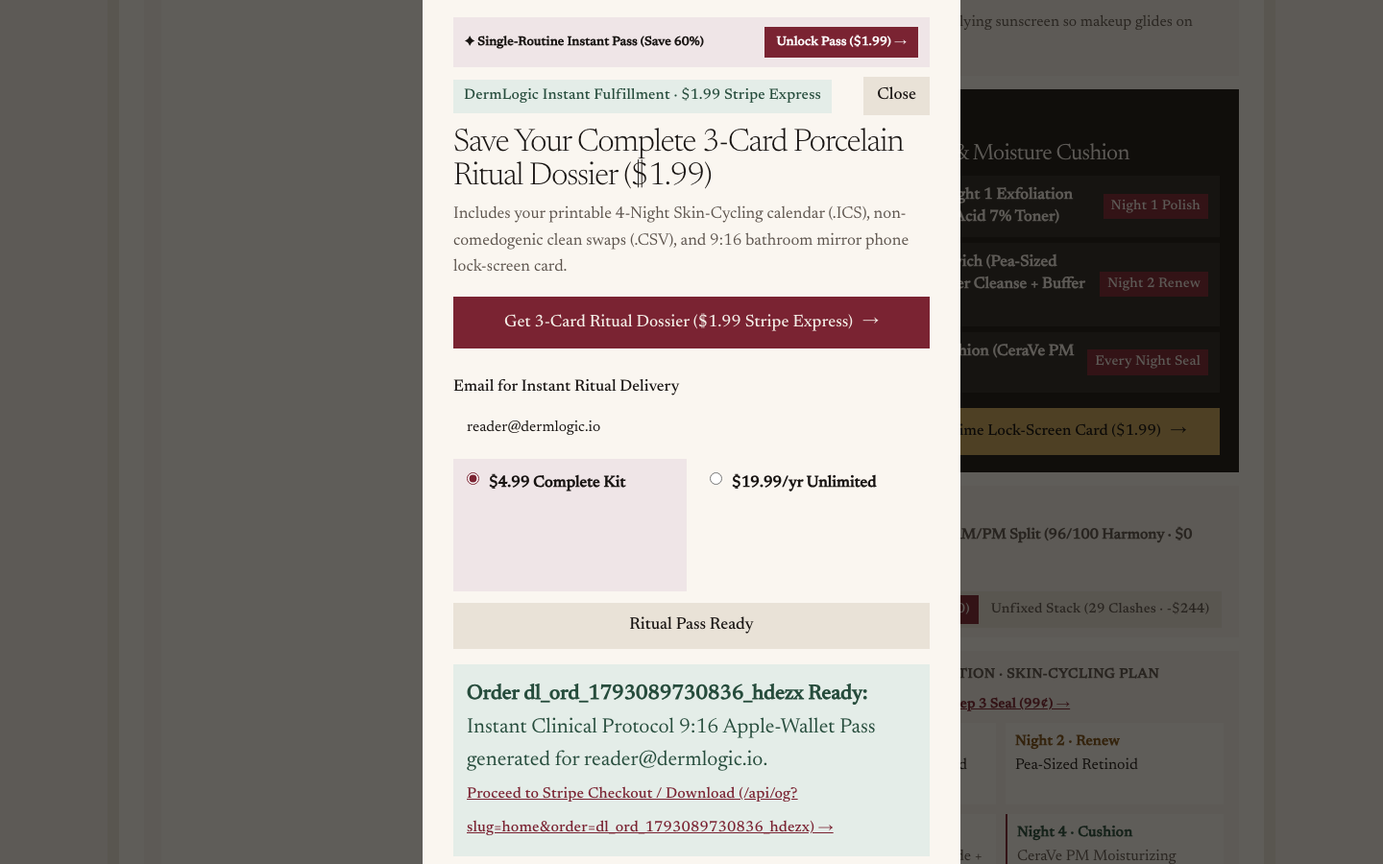
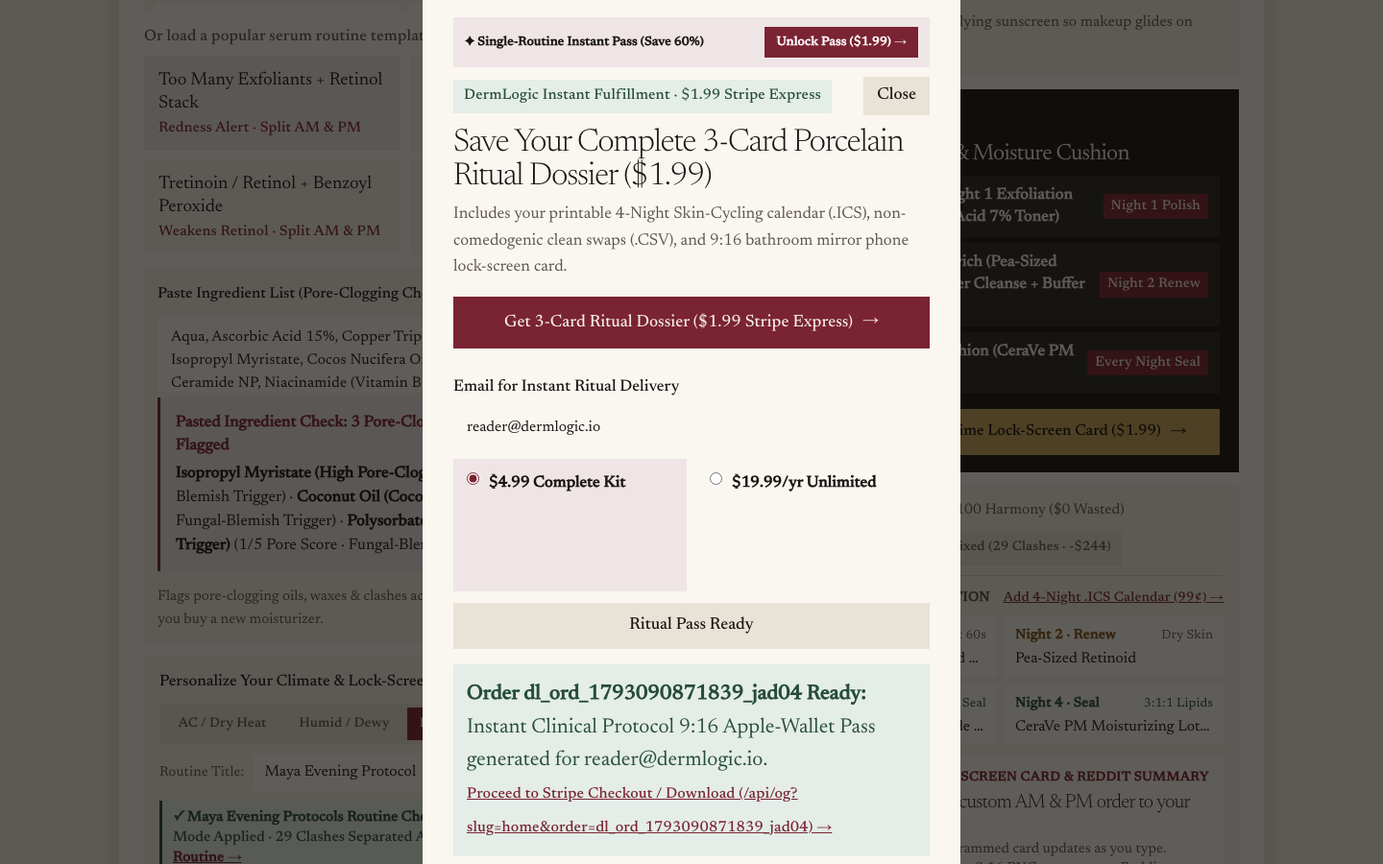
fix(ui): polish #analyzer two-column balance, personalization bar, 4-night rotation & lock-screen card

diff --git a/src/endowment-sovrn.js b/src/endowment-sovrn.js
@@ -198,27 +198,22 @@ function renderPersonalizedResultsHeaderHtml(res) {
 }
 
 function renderPersonalizationBarHtml(initialClimate = 'indoor_dry', initialShelfName = '') {
-  return `<div id="endowmentPersonalizationBar" style="padding:14px 16px;background:var(--bg-canvas);display:flex;flex-direction:column;gap:10px;border-left:2.5px solid var(--rose-brand);">
-    <div style="display:flex;justify-content:space-between;align-items:center;flex-wrap:wrap;gap:6px;">
-      <span class="mono" style="font-size:0.8rem;font-weight:600;color:var(--rose-brand);line-height:1.3;">Step 2 · Personalize Your Climate &amp; Vanity Ritual Card</span>
-      <span id="shelfDraftSavedBadge" class="mono" style="font-size:0.74rem;padding:2px 8px;background:var(--sage-bg);color:var(--sage-safe);font-weight:500;">✓ Shelf Auto-Saved in Browser</span>
+  return `<div id="endowmentPersonalizationBar" style="padding:14px 16px;background:var(--bg-canvas);display:flex;flex-direction:column;gap:10px;">
+    <div style="display:flex;justify-content:space-between;align-items:center;gap:8px;flex-wrap:wrap;">
+      <span class="field-label" style="margin:0;font-size:0.88rem;">Personalize Your Climate &amp; Lock-Screen Card</span>
+      <span id="shelfDraftSavedBadge" class="badge-safe mono" style="font-size:0.72rem;padding:2px 8px;">✓ Shelf Auto-Saved</span>
     </div>
-    <div style="display:grid;grid-template-columns:repeat(auto-fit,minmax(210px,1fr));gap:12px;align-items:flex-start;">
-      <div style="display:flex;flex-direction:column;gap:5px;">
-        <label for="shelfNameInput" class="mono" style="display:block;font-size:0.75rem;color:var(--text-secondary);line-height:1.35;">Monogram Your Routine &amp; 9:16 Card</label>
-        <input id="shelfNameInput" type="text" maxlength="44" class="input-box" style="padding:8px 10px;font-size:0.85rem;" placeholder="e.g., Kados or Maya's Evening Ritual" value="${escapeHtml(initialShelfName)}" oninput="window.__dlUpdatePersonalization()" onkeydown="if(event.key==='Enter'){event.preventDefault();if(typeof runRoutineAnalysis==='function')runRoutineAnalysis(null,true);}" />
-      </div>
-      <div style="display:flex;flex-direction:column;gap:5px;">
-        <span class="mono" style="display:block;font-size:0.75rem;color:var(--text-secondary);line-height:1.35;">Climate &amp; Barrier Mode (Adjusts Wait Times)</span>
-        <div id="climateContextPills" role="group" aria-label="Climate and Barrier Context" style="display:flex;gap:5px;flex-wrap:wrap;">
-          <button type="button" class="vanity-light-btn mono ${initialClimate === 'indoor_dry' ? 'active' : ''}" data-climate="indoor_dry" aria-pressed="${initialClimate === 'indoor_dry' ? 'true' : 'false'}" style="padding:5px 9px;font-size:0.74rem;min-height:30px;" onclick="window.__dlSetClimate('indoor_dry', this)">AC / Dry Heat</button>
-          <button type="button" class="vanity-light-btn mono ${initialClimate === 'humid_oily' ? 'active' : ''}" data-climate="humid_oily" aria-pressed="${initialClimate === 'humid_oily' ? 'true' : 'false'}" style="padding:5px 9px;font-size:0.74rem;min-height:30px;" onclick="window.__dlSetClimate('humid_oily', this)">Humid / Dewy</button>
-          <button type="button" class="vanity-light-btn mono ${initialClimate === 'retinoid_retinization' ? 'active' : ''}" data-climate="retinoid_retinization" aria-pressed="${initialClimate === 'retinoid_retinization' ? 'true' : 'false'}" style="padding:5px 9px;font-size:0.74rem;min-height:30px;" onclick="window.__dlSetClimate('retinoid_retinization', this)">Retinoid Purge</button>
-          <button type="button" class="vanity-light-btn mono ${initialClimate === 'pregnancy_nursing' ? 'active' : ''}" data-climate="pregnancy_nursing" aria-pressed="${initialClimate === 'pregnancy_nursing' ? 'true' : 'false'}" style="padding:5px 9px;font-size:0.74rem;min-height:30px;" onclick="window.__dlSetClimate('pregnancy_nursing', this)">Pregnancy-Safe</button>
-        </div>
-      </div>
+    <div id="climateContextPills" role="group" aria-label="Climate and Barrier Context" style="display:grid;grid-template-columns:repeat(4,minmax(0,1fr));gap:4px;background:var(--bg-oat);padding:4px;">
+      <button type="button" class="vanity-light-btn mono ${initialClimate === 'indoor_dry' ? 'active' : ''}" data-climate="indoor_dry" aria-pressed="${initialClimate === 'indoor_dry' ? 'true' : 'false'}" style="width:100%;text-align:center;padding:6px 4px;font-size:0.74rem;min-height:30px;" onclick="window.__dlSetClimate('indoor_dry', this)">AC / Dry Heat</button>
+      <button type="button" class="vanity-light-btn mono ${initialClimate === 'humid_oily' ? 'active' : ''}" data-climate="humid_oily" aria-pressed="${initialClimate === 'humid_oily' ? 'true' : 'false'}" style="width:100%;text-align:center;padding:6px 4px;font-size:0.74rem;min-height:30px;" onclick="window.__dlSetClimate('humid_oily', this)">Humid / Dewy</button>
+      <button type="button" class="vanity-light-btn mono ${initialClimate === 'retinoid_retinization' ? 'active' : ''}" data-climate="retinoid_retinization" aria-pressed="${initialClimate === 'retinoid_retinization' ? 'true' : 'false'}" style="width:100%;text-align:center;padding:6px 4px;font-size:0.74rem;min-height:30px;" onclick="window.__dlSetClimate('retinoid_retinization', this)">Retinoid Purge</button>
+      <button type="button" class="vanity-light-btn mono ${initialClimate === 'pregnancy_nursing' ? 'active' : ''}" data-climate="pregnancy_nursing" aria-pressed="${initialClimate === 'pregnancy_nursing' ? 'true' : 'false'}" style="width:100%;text-align:center;padding:6px 4px;font-size:0.74rem;min-height:30px;" onclick="window.__dlSetClimate('pregnancy_nursing', this)">Pregnancy-Safe</button>
     </div>
-    <div id="analyzeBtnFeedback" role="status" aria-live="polite" style="display:none;padding:9px 12px;background:var(--sage-bg);color:var(--sage-safe);border-left:3px solid var(--sage-safe);font-size:0.82rem;font-weight:500;line-height:1.4;"></div>
+    <div style="display:grid;grid-template-columns:auto minmax(0,1fr);gap:10px;align-items:center;">
+      <label for="shelfNameInput" class="mono" style="font-size:0.76rem;color:var(--text-secondary);white-space:nowrap;">Routine Title:</label>
+      <input id="shelfNameInput" type="text" maxlength="44" class="input-box" style="padding:7px 11px;font-size:0.84rem;" placeholder="e.g., Kados or Maya's Evening Ritual (Optional)" value="${escapeHtml(initialShelfName)}" oninput="window.__dlUpdatePersonalization()" onkeydown="if(event.key==='Enter'){event.preventDefault();if(typeof runRoutineAnalysis==='function')runRoutineAnalysis(null,true);}" />
+    </div>
+    <div id="analyzeBtnFeedback" role="status" aria-live="polite" style="display:none;padding:8px 11px;background:var(--sage-bg);color:var(--sage-safe);border-left:3px solid var(--sage-safe);font-size:0.8rem;font-weight:500;line-height:1.38;"></div>
   </div>`;
 }
 
@@ -226,43 +221,41 @@ function renderBeforeAfterAndCanvasFooterHtml(res, n1Label, n1Val, n2Label, n2Va
   const conflictCount = (res.conflicts || []).length;
   const wastedUsd = res.wastedShelfValueUsd || 0;
   return `
-    <div id="beforeAfterSplitBar" style="padding:10px 12px;background:var(--bg-canvas);display:flex;justify-content:space-between;align-items:center;flex-wrap:wrap;gap:8px;">
+    <div style="padding:14px 16px;background:var(--bg-canvas);display:flex;flex-direction:column;gap:12px;">
+      <div id="beforeAfterSplitBar" style="display:flex;justify-content:space-between;align-items:center;flex-wrap:wrap;gap:8px;padding-bottom:10px;border-bottom:1px solid var(--border-hairline);">
+        <span id="beforeAfterStatusText" style="font-size:0.82rem;color:var(--text-secondary);"><strong style="color:var(--sage-safe);">✓ Fixed AM/PM Split</strong> &middot; 96/100 Harmony ($0 Wasted)</span>
+        <div class="vanity-light-pill" role="group" aria-label="Compare Before Clashing Stack vs After Fixed Split" style="padding:3px;gap:3px;">
+          <button type="button" id="btnViewFixedSplit" class="vanity-light-btn active mono" style="font-size:0.73rem;padding:4px 9px;min-height:26px;" aria-pressed="true" onclick="window.__dlToggleBeforeAfter('fixed', this)">Fixed Split (96/100)</button>
+          <button type="button" id="btnViewClashingStack" class="vanity-light-btn mono" style="font-size:0.73rem;padding:4px 9px;min-height:26px;" aria-pressed="false" onclick="window.__dlToggleBeforeAfter('clash', this)">Unfixed (${conflictCount} ${conflictCount === 1 ? 'Clash' : 'Clashes'} &middot; -$${wastedUsd})</button>
+        </div>
+      </div>
+
       <div>
-        <span class="mono" style="font-size:0.76rem;color:var(--rose-brand);font-weight:600;display:block;">Instant Routine Comparison</span>
-        <span id="beforeAfterStatusText" style="font-size:0.82rem;color:var(--text-secondary);">Viewing: <strong>DermLogic Fixed AM/PM Split (96/100 Harmony · $0 Wasted)</strong></span>
-      </div>
-      <div class="vanity-light-pill" role="group" aria-label="Compare Before Clashing Stack vs After Fixed Split">
-        <button type="button" id="btnViewFixedSplit" class="vanity-light-btn active mono" style="font-size:0.75rem;padding:4px 9px;min-height:28px;" aria-pressed="true" onclick="window.__dlToggleBeforeAfter('fixed', this)">Fixed AM/PM Split (96/100)</button>
-        <button type="button" id="btnViewClashingStack" class="vanity-light-btn mono" style="font-size:0.75rem;padding:4px 9px;min-height:28px;" aria-pressed="false" onclick="window.__dlToggleBeforeAfter('clash', this)">Unfixed Stack (${conflictCount} ${conflictCount === 1 ? 'Clash' : 'Clashes'} · -$${wastedUsd})</button>
-      </div>
-    </div>
-
-    <div style="padding:14px 16px;background:var(--bg-canvas);">
-      <div style="display:flex;justify-content:space-between;align-items:center;flex-wrap:wrap;gap:8px;margin-bottom:8px;">
-        <div class="mono" style="font-size:0.76rem;color:var(--text-secondary);font-weight:600;letter-spacing:0.03em;text-transform:uppercase;">4-Night Bedtime Rotation &middot; Skin-Cycling Plan</div>
-        <a href="/buy/micro_pass?source=cycling_grid" onclick="if(window.__ebQuickBuy){window.__ebQuickBuy('micro_pass');return false;}" class="mono" style="font-size:0.75rem;color:var(--rose-brand);font-weight:600;text-decoration:underline;">Unlock Full 4-Night .ICS + Step 3 Seal (99&cent;) &rarr;</a>
-      </div>
-      <div style="display:grid;grid-template-columns:repeat(2,minmax(0,1fr));gap:10px;">
-        <div style="padding:8px 10px;background:var(--bg-surface);"><div class="mono" style="font-size:0.8rem;color:var(--rose-brand);font-weight:600;">${escapeHtml(n1Label)}</div><div style="font-size:0.85rem;color:var(--text-primary);margin-top:2px;line-height:1.35;">${escapeHtml(n1Val)}</div></div>
-        <div style="padding:8px 10px;background:var(--bg-surface);"><div class="mono" style="font-size:0.8rem;color:var(--honey-warn);font-weight:600;">${escapeHtml(n2Label)}</div><div style="font-size:0.85rem;color:var(--text-primary);margin-top:2px;line-height:1.35;">${escapeHtml(n2Val)}</div></div>
-        <div style="padding:8px 10px;background:var(--bg-surface);border-left:2px solid var(--rose-brand);"><div class="mono" style="font-size:0.8rem;color:var(--sage-safe);font-weight:600;">${escapeHtml(n3Label)}</div><div class="dl-gated-night-val" data-unlocked-text="${escapeHtml(n3Val)}" style="font-size:0.83rem;color:var(--text-secondary);margin-top:2px;line-height:1.35;">${escapeHtml(n3Val)} &middot; <span class="mono" style="color:var(--rose-brand);font-weight:600;">[Exact Dry-Down in 99&cent; Card]</span></div></div>
-        <div style="padding:8px 10px;background:var(--bg-surface);border-left:2px solid var(--rose-brand);"><div class="mono" style="font-size:0.8rem;color:var(--sage-safe);font-weight:600;">Night 4 &middot; Cushion</div><div class="dl-gated-night-val" data-unlocked-text="${escapeHtml(n4Val)}" style="font-size:0.83rem;color:var(--text-secondary);margin-top:2px;line-height:1.35;">${escapeHtml(n4Val)} &middot; <span class="mono" style="color:var(--rose-brand);font-weight:600;">[Barrier Seal Ratio in 99&cent; Card]</span></div></div>
-      </div>
-    </div>
-
-    <div id="lockScreenCanvasSection" style="padding:14px 16px;background:var(--bg-canvas);display:flex;flex-direction:column;gap:10px;">
-      <div style="display:flex;justify-content:space-between;align-items:center;flex-wrap:wrap;gap:8px;">
-        <div>
-          <span class="mono" style="font-size:0.78rem;color:var(--rose-brand);font-weight:600;display:block;">9:16 Bathroom Mirror Phone Lock-Screen Wallpaper Preview</span>
-          <span style="font-size:0.8rem;color:var(--text-secondary);">Live monogrammed card updates as you type. Free preview includes diagonal watermark; 99&cent; pass downloads high-res unwatermarked PNG.</span>
+        <div style="display:flex;justify-content:space-between;align-items:center;flex-wrap:wrap;gap:6px;margin-bottom:8px;">
+          <span class="mono" style="font-size:0.75rem;color:var(--text-secondary);font-weight:600;letter-spacing:0.02em;text-transform:uppercase;">4-Night Bedtime Rotation</span>
+          <a href="/buy/micro_pass?source=cycling_grid" onclick="if(window.__ebQuickBuy){window.__ebQuickBuy('micro_pass');return false;}" class="mono" style="font-size:0.74rem;color:var(--rose-brand);font-weight:500;text-decoration:underline;white-space:nowrap;">Add 4-Night .ICS Calendar (99&cent;) &rarr;</a>
         </div>
-        <div style="display:flex;gap:6px;flex-wrap:wrap;">
-          <button type="button" id="btnCopyRedditRoutineHelp" class="btn-secondary mono" style="padding:6px 11px;min-height:32px;font-size:0.76rem;" onclick="window.__dlCopyRedditRoutineHelp(this)">Copy [Routine Help] Post for Reddit</button>
-          <button type="button" id="btnDownloadLockScreenPng" class="btn-primary mono" style="padding:6px 12px;min-height:32px;font-size:0.76rem;" onclick="window.__dlDownloadOrUnlockWallpaper()">Download 9:16 Wallpaper PNG (99&cent;) &rarr;</button>
+        <div style="display:grid;grid-template-columns:repeat(2,minmax(0,1fr));gap:8px;">
+          <div style="padding:9px 11px;background:var(--bg-surface);"><div style="display:flex;justify-content:space-between;align-items:center;gap:4px;"><span class="mono" style="font-size:0.76rem;color:var(--rose-brand);font-weight:600;white-space:nowrap;">${escapeHtml(n1Label)}</span><span class="mono" style="font-size:0.69rem;color:var(--text-muted);white-space:nowrap;">Wait 60s</span></div><div style="font-size:0.83rem;color:var(--text-primary);margin-top:2px;line-height:1.3;white-space:nowrap;overflow:hidden;text-overflow:ellipsis;">${escapeHtml(n1Val)}</div></div>
+          <div style="padding:9px 11px;background:var(--bg-surface);"><div style="display:flex;justify-content:space-between;align-items:center;gap:4px;"><span class="mono" style="font-size:0.76rem;color:var(--honey-warn);font-weight:600;white-space:nowrap;">${escapeHtml(n2Label)}</span><span class="mono" style="font-size:0.69rem;color:var(--text-muted);white-space:nowrap;">Dry Skin</span></div><div style="font-size:0.83rem;color:var(--text-primary);margin-top:2px;line-height:1.3;white-space:nowrap;overflow:hidden;text-overflow:ellipsis;">${escapeHtml(n2Val)}</div></div>
+          <div style="padding:9px 11px;background:var(--bg-surface);"><div style="display:flex;justify-content:space-between;align-items:center;gap:4px;"><span class="mono" style="font-size:0.76rem;color:var(--sage-safe);font-weight:600;white-space:nowrap;">${escapeHtml(n3Label)}</span><span class="mono dl-gated-night-val" data-unlocked-text="Damp Seal" style="font-size:0.69rem;color:var(--sage-safe);white-space:nowrap;">Barrier Rest</span></div><div style="font-size:0.83rem;color:var(--text-primary);margin-top:2px;line-height:1.3;white-space:nowrap;overflow:hidden;text-overflow:ellipsis;">${escapeHtml(n3Val)}</div></div>
+          <div style="padding:9px 11px;background:var(--bg-surface);"><div style="display:flex;justify-content:space-between;align-items:center;gap:4px;"><span class="mono" style="font-size:0.76rem;color:var(--sage-safe);font-weight:600;white-space:nowrap;">Night 4 &middot; Seal</span><span class="mono dl-gated-night-val" data-unlocked-text="3:1:1 Lipids" style="font-size:0.69rem;color:var(--sage-safe);white-space:nowrap;">3:1:1 Lipids</span></div><div style="font-size:0.83rem;color:var(--text-primary);margin-top:2px;line-height:1.3;white-space:nowrap;overflow:hidden;text-overflow:ellipsis;">${escapeHtml(n4Val)}</div></div>
         </div>
       </div>
-      <div style="display:flex;justify-content:center;background:var(--bg-oat);padding:10px;">
-        <canvas id="lockScreenWallpaperCanvas" width="360" height="640" style="width:198px;height:352px;max-width:100%;background:#181412;display:block;"></canvas>
+
+      <div id="lockScreenCanvasSection" style="padding:12px 14px;background:var(--bg-surface);display:grid;grid-template-columns:84px minmax(0,1fr);gap:14px;align-items:center;">
+        <canvas id="lockScreenWallpaperCanvas" width="360" height="640" onclick="window.__dlDownloadOrUnlockWallpaper()" title="Click to download 9:16 Lock-Screen Routine Card" style="width:84px;height:149px;background:#181412;display:block;cursor:pointer;box-shadow:0 4px 12px rgba(12,10,8,0.14);"></canvas>
+        <div style="min-width:0;display:flex;flex-direction:column;gap:6px;">
+          <div>
+            <span class="mono" style="font-size:0.72rem;color:var(--rose-brand);font-weight:600;display:block;text-transform:uppercase;letter-spacing:0.02em;white-space:nowrap;overflow:hidden;text-overflow:ellipsis;">9:16 Lock-Screen Card &amp; Reddit Summary</span>
+            <div class="serif-display" style="font-size:1.08rem;color:var(--text-primary);line-height:1.22;margin-top:2px;">Save your custom AM &amp; PM order to your phone.</div>
+            <div style="font-size:0.78rem;color:var(--text-secondary);line-height:1.36;margin-top:2px;">Live monogrammed card updates as you type. Download the 9:16 PNG or copy your Reddit summary.</div>
+          </div>
+          <div style="display:grid;grid-template-columns:repeat(2,minmax(0,1fr));gap:8px;align-items:center;margin-top:2px;">
+            <button type="button" id="btnDownloadLockScreenPng" class="btn-primary mono" style="padding:6px 8px;min-height:32px;font-size:0.72rem;white-space:nowrap;justify-content:center;" onclick="window.__dlDownloadOrUnlockWallpaper()">Save 9:16 PNG (99&cent;) &rarr;</button>
+            <button type="button" id="btnCopyRedditRoutineHelp" class="btn-secondary mono" style="padding:6px 8px;min-height:32px;font-size:0.72rem;white-space:nowrap;justify-content:center;" onclick="window.__dlCopyRedditRoutineHelp(this)">Copy Reddit Summary</button>
+          </div>
+        </div>
       </div>
     </div>
   `;
@@ -489,11 +482,16 @@ const ENDOWMENT_CLIENT_SCRIPT = `
     var wUsd = res.wastedShelfValueUsd || 0;
     if (st) {
       st.innerHTML = window.__dlViewMode === 'clash'
-        ? 'Viewing: <strong style="color:var(--berry-clash);">Unfixed Same-Night Stack (' + cCount + ' Clashes · -$' + wUsd + ' Serum Value at Risk)</strong>'
-        : 'Viewing: <strong style="color:var(--sage-safe);">DermLogic Fixed AM/PM Split (96/100 Harmony · $0 Wasted)</strong>';
+        ? '<strong style="color:var(--berry-clash);">Unfixed Stack</strong> &middot; ' + cCount + ' Clashes (-$' + wUsd + ' Serum Value at Risk)'
+        : '<strong style="color:var(--sage-safe);">✓ Fixed AM/PM Split</strong> &middot; 96/100 Harmony ($0 Wasted)';
     }
     window.__dlSaveShelfState();
     window.__dlRenderWallpaperCanvas();
+  };
+
+  window.__dlCleanCanvasStep = function(raw) {
+    var s = String(raw || '').replace(/\\s*\\([^)]*$/, '').replace(/\\s*\\([^)]*\\)/g, '').trim();
+    return s.length > 34 ? (s.slice(0, 33) + '...') : s;
   };
 
   window.__dlRenderWallpaperCanvas = function() {
@@ -513,64 +511,66 @@ const ENDOWMENT_CLIENT_SCRIPT = `
 
     ctx.fillStyle = '#C9A45A';
     ctx.font = '600 11px Georgia, serif';
-    ctx.fillText('DERMLOGIC · FORMULATION ATELIER', 26, 40);
+    ctx.fillText('DERMLOGIC · FORMULATION ATELIER', 26, 42);
 
     ctx.fillStyle = '#F4EFE8';
-    ctx.font = 'bold 18px Georgia, serif';
-    ctx.fillText(shelfName.slice(0, 28), 26, 68);
+    ctx.font = 'bold 19px Georgia, serif';
+    ctx.fillText(shelfName.slice(0, 26), 26, 70);
 
     ctx.fillStyle = '#B5ACA3';
-    ctx.font = '12px Georgia, serif';
-    ctx.fillText(climateTxt, 26, 88);
+    ctx.font = '12.5px Georgia, serif';
+    ctx.fillText(climateTxt, 26, 92);
 
     var cards = document.querySelectorAll('#appleWalletCardPreview strong');
     var steps = [];
     for (var i = 0; i < cards.length; i++) {
-      steps.push(cards[i].textContent.trim().slice(0, 42));
+      steps.push(window.__dlCleanCanvasStep(cards[i].textContent));
     }
     if (steps.length === 0) {
       steps = ['1. Gentle Morning Cleanse', '2. Morning Vitamin C (Wait 60s)', '3. Barrier Seal + SPF 50', '1. Evening Cleanse', '2. Night Active / Peptide', '3. 3:1:1 Ceramide Cushion'];
     }
 
     ctx.fillStyle = '#EFE5E7';
-    ctx.font = 'bold 12px Georgia, serif';
-    ctx.fillText('7:30 AM · MORNING SHIELD ORDER', 26, 124);
+    ctx.font = 'bold 12.5px Georgia, serif';
+    ctx.fillText('7:30 AM · MORNING SHIELD', 26, 132);
     ctx.fillStyle = '#F4EFE8';
-    ctx.font = '12px Georgia, serif';
+    ctx.font = '13px Georgia, serif';
     for (var a = 0; a < Math.min(3, steps.length); a++) {
-      ctx.fillText(steps[a], 26, 148 + a * 24);
+      ctx.fillText(steps[a], 26, 158 + a * 26);
     }
 
     ctx.fillStyle = '#C9A45A';
-    ctx.font = 'bold 12px Georgia, serif';
-    ctx.fillText('9:30 PM · BEDTIME RECOVERY ORDER', 26, 240);
+    ctx.font = 'bold 12.5px Georgia, serif';
+    ctx.fillText('9:30 PM · BEDTIME RECOVERY', 26, 256);
     ctx.fillStyle = '#F4EFE8';
-    ctx.font = '12px Georgia, serif';
+    ctx.font = '13px Georgia, serif';
     for (var p = 3; p < Math.min(6, steps.length); p++) {
-      ctx.fillText(steps[p], 26, 264 + (p - 3) * 24);
+      ctx.fillText(steps[p], 26, 282 + (p - 3) * 26);
     }
 
     ctx.fillStyle = '#88C4A6';
-    ctx.font = 'bold 12px Georgia, serif';
-    ctx.fillText('4-NIGHT SKIN-CYCLING ROTATION', 26, 360);
+    ctx.font = 'bold 12.5px Georgia, serif';
+    ctx.fillText('4-NIGHT SKIN-CYCLING PLAN', 26, 380);
     ctx.fillStyle = '#B5ACA3';
-    ctx.font = '11.5px Georgia, serif';
-    ctx.fillText('Night 1: Gentle Acid Polish · Wait 60s', 26, 384);
-    ctx.fillText('Night 2: Retinoid Renewal · Cream Buffer', 26, 406);
-    ctx.fillText('Night 3: Peptide & Barrier Recovery', 26, 428);
-    ctx.fillText('Night 4: 3:1:1 Ceramide Cushion Seal', 26, 450);
+    ctx.font = '12.5px Georgia, serif';
+    ctx.fillText('Night 1: Gentle Acid Polish · Wait 60s', 26, 406);
+    ctx.fillText('Night 2: Retinoid Renewal · Cream Buffer', 26, 430);
+    ctx.fillText('Night 3: Peptide & Barrier Recovery', 26, 454);
+    ctx.fillText('Night 4: 3:1:1 Ceramide Cushion Seal', 26, 478);
 
     var unlocked = Boolean(window.__ebIsUnlocked);
     if (!unlocked) {
-      ctx.save();
-      ctx.translate(w / 2, h / 2);
-      ctx.rotate(-Math.PI / 5);
-      ctx.fillStyle = 'rgba(201, 164, 90, 0.22)';
-      ctx.font = 'bold 21px Georgia, serif';
-      ctx.textAlign = 'center';
-      ctx.fillText('DERMLOGIC.IO PREVIEW', 0, -10);
-      ctx.fillText('UNLOCK 99¢ CLEAN CARD', 0, 18);
-      ctx.restore();
+      ctx.fillStyle = 'rgba(201, 164, 90, 0.16)';
+      ctx.fillRect(24, 524, w - 48, 52);
+      ctx.strokeStyle = 'rgba(201, 164, 90, 0.55)';
+      ctx.lineWidth = 1;
+      ctx.strokeRect(24, 524, w - 48, 52);
+      ctx.fillStyle = '#C9A45A';
+      ctx.font = 'bold 12px Georgia, serif';
+      ctx.fillText('DERMLOGIC.IO FREE PREVIEW', 38, 546);
+      ctx.fillStyle = '#F4EFE8';
+      ctx.font = '11.5px Georgia, serif';
+      ctx.fillText('Tap to download unwatermarked 9:16 PNG (99¢)', 38, 564);
     } else {
       var dlBtn = document.getElementById('btnDownloadLockScreenPng');
       if (dlBtn) dlBtn.textContent = 'Download Clean 9:16 PNG ↓';

diff --git a/src/ui-templates.js b/src/ui-templates.js
@@ -169,7 +169,7 @@ const SHARED_CSS = `
   .preset-chip strong { display: -webkit-box; -webkit-line-clamp: 2; -webkit-box-orient: vertical; overflow: hidden; color: var(--text-primary); font-family: 'Newsreader', Georgia, serif; font-size: 1rem; font-weight: 400; line-height: 1.25; white-space: normal; }
   .preset-chip span { display: block; color: var(--rose-brand); font-size: 0.8rem; font-weight: 500; line-height: 1.3; white-space: normal; }
   .field-label { display: block; font-size: 0.9rem; font-weight: 500; color: var(--text-primary); margin-bottom: 6px; }
-  .product-selector-grid { display: grid !important; grid-template-columns: repeat(2, minmax(0, 1fr)) !important; grid-auto-rows: 138px; gap: 10px; flex: 0 0 606px; height: 606px; min-height: 606px; max-height: 606px; overflow-y: auto; scrollbar-width: thin; scrollbar-color: var(--border-strong) transparent; padding: 12px; background: var(--bg-canvas); margin-bottom: 14px; align-content: start; }
+  .product-selector-grid { display: grid !important; grid-template-columns: repeat(2, minmax(0, 1fr)) !important; grid-auto-rows: 138px; gap: 10px; flex: 1 1 0px; height: 0; min-height: 540px; overflow-y: auto; scrollbar-width: thin; scrollbar-color: var(--border-strong) transparent; padding: 12px; background: var(--bg-canvas); margin-bottom: 14px; align-content: start; }
   .prod-check-item { display: flex; align-items: stretch; gap: 10px; padding: 12px 14px; height: 138px; background: var(--bg-surface); cursor: pointer; font-size: 0.88rem; transition: background-color 180ms ease-out; overflow: hidden; }
   .prod-check-item.selected { background: var(--rose-pill-bg); }
   .prod-check-item input { margin-top: 2px; align-self: flex-start; accent-color: var(--rose-brand); flex-shrink: 0; }
@@ -223,6 +223,7 @@ const SHARED_CSS = `
     .editorial-top-banner { grid-template-columns: 1fr; row-gap: 24px; }
     .hero-title-block, .hero-copy-col, .hero-photo-col { grid-column: 1 / -1 !important; }
     .hero-grid, .z-cascade-stage, .bento-grid-3 { grid-template-columns: 1fr; }
+    .product-selector-grid { max-height: 560px; }
     .viscosity-seq-list { grid-template-columns: repeat(2, 1fr); }
     .hero-h1-line2 { padding-left: 6vw; }
     .nav-inner { flex-wrap: wrap; }
@@ -341,8 +342,8 @@ function renderInteractiveCheckerWidget({ products, presets, initialAnalysis, in
   return `
     <div id="checker"></div>
     <div class="hero-grid" id="analyzer">
-      <div class="grader-card" style="display:flex;flex-direction:column;justify-content:space-between;height:100%;">
-        <div class="porcelain-vessel-core" style="height:100%;display:flex;flex-direction:column;justify-content:space-between;gap:16px;">
+      <div class="grader-card" style="display:flex;flex-direction:column;">
+        <div class="porcelain-vessel-core" style="flex:1;display:flex;flex-direction:column;justify-content:space-between;gap:16px;">
           <div style="flex:1;display:flex;flex-direction:column;min-height:0;gap:14px;">
             <div style="display:flex;justify-content:space-between;align-items:center;flex-wrap:wrap;gap:8px;">
               <span class="mono" style="font-size:0.9rem;color:var(--rose-brand);font-weight:500;">Bathroom Vanity Shelf Builder</span>
@@ -383,14 +384,14 @@ function renderInteractiveCheckerWidget({ products, presets, initialAnalysis, in
               </div>
             </div>
 
-            <div style="flex:1;display:flex;flex-direction:column;padding:16px 18px;background:var(--bg-canvas);">
-              <div style="display:flex;justify-content:space-between;align-items:center;margin-bottom:10px;flex-wrap:wrap;gap:8px;">
-                <label class="field-label" for="rawInciTextarea" style="margin:0;font-size:0.9rem;">Paste Any Ingredient List for a Pore-Clogging &amp; Blemish Check</label>
-                <button type="button" class="btn-secondary" style="padding:6px 12px;font-size:0.82rem;min-height:34px;" onclick="pasteSampleComedogenicInci()">Try Pore-Clogging Sample</button>
+            <div style="flex:0 0 auto;display:flex;flex-direction:column;padding:12px 14px;background:var(--bg-canvas);">
+              <div style="display:flex;justify-content:space-between;align-items:center;margin-bottom:8px;gap:8px;">
+                <label class="field-label" for="rawInciTextarea" style="margin:0;font-size:0.84rem;white-space:nowrap;overflow:hidden;text-overflow:ellipsis;">Paste Ingredient List (Pore-Clogging Check)</label>
+                <button type="button" class="btn-secondary" style="padding:4px 10px;font-size:0.76rem;min-height:28px;flex-shrink:0;" onclick="pasteSampleComedogenicInci()">Try Pore-Clogging Sample</button>
               </div>
-              <textarea id="rawInciTextarea" class="textarea-box mono" rows="3" style="flex:1;min-height:76px;" oninput="if(window.__inciTimer)clearTimeout(window.__inciTimer);window.__inciTimer=setTimeout(function(){runRoutineAnalysis();},380);" placeholder="e.g., Aqua, Ascorbic Acid 15%, Copper Tripeptide-1, Glycolic Acid 7%, Isopropyl Myristate...">${escapeHtml(initialRawInci || '')}</textarea>
-              <div id="rawInciFeedbackBox" style="margin-top:8px;"></div>
-              <div style="font-size:0.82rem;color:var(--text-secondary);margin-top:6px;">Flags pore-clogging oils, waxes &amp; clashes across 65 skincare ingredients, helpful before buying a new moisturizer or foundation.</div>
+              <textarea id="rawInciTextarea" class="textarea-box mono" rows="3" style="flex:0 0 auto;height:78px;min-height:78px;max-height:130px;resize:vertical;" oninput="if(window.__inciTimer)clearTimeout(window.__inciTimer);window.__inciTimer=setTimeout(function(){runRoutineAnalysis();},380);" placeholder="e.g., Aqua, Ascorbic Acid 15%, Copper Tripeptide-1, Glycolic Acid 7%, Isopropyl Myristate...">${escapeHtml(initialRawInci || '')}</textarea>
+              <div id="rawInciFeedbackBox" style="margin-top:6px;"></div>
+              <div style="font-size:0.79rem;color:var(--text-secondary);margin-top:5px;">Flags pore-clogging oils, waxes &amp; clashes across 65 skincare ingredients before you buy a new moisturizer.</div>
             </div>
             ${renderPersonalizationBarHtml('indoor_dry', '')}
           </div>
@@ -458,15 +459,18 @@ function renderSingleConflictCard(c) {
   const nameB = String(c.ingredientB || c.inciB || '').replace(/\s*\([^)]*\)/g, '');
   const cleanTitle = String(c.title || '').replace(/\s*\(pH[^)]*\)/gi, '');
   const cleanMechanism = String(c.mechanism || '').replace(/\s*\(pH[^)]*\)/gi, '').replace(/\blow-pH\s+/gi, '');
-  const howToFix = String(c.resolution || (isCritical ? 'Use one bottle in the morning and the other at bedtime.' : 'Apply a ceramide moisturizer first (Sandwich Method) or alternate nights.')).trim();
+  const rawRes = String(c.resolution || '').trim();
+  const howToFix = (!rawRes || /LOCKED IN FREE PREVIEW/i.test(rawRes))
+    ? (isCritical ? 'Use one bottle in the morning (7:30 AM) and the other at bedtime (9:30 PM) so they never cancel on contact.' : 'Apply a ceramide moisturizer first (Sandwich Method) or alternate across your 4-night cycle.')
+    : rawRes;
   const timingTip = isCritical ? 'Separate Morning & Night' : 'Alternate Nights or Buffer First';
   const swap = getConflictSafeSwap(c);
-  return `<div class="conflict-card ${escapeHtml(c.severity)}">
-      <div style="display:flex;justify-content:space-between;align-items:center;gap:8px;margin-bottom:6px;flex-wrap:wrap;"><span class="${isCritical ? 'badge-clash' : 'badge-warn'} mono">${badgeLabel}</span><span class="mono" style="font-size:0.86rem;color:var(--text-secondary);font-weight:500;">${escapeHtml(nameA)} + ${escapeHtml(nameB)}</span></div>
-      <div class="serif-display" style="font-size:1.25rem;font-weight:400;margin-bottom:6px;color:var(--text-primary);">${escapeHtml(cleanTitle)}</div>
-      <p style="color:var(--text-secondary);font-size:0.9rem;line-height:1.54;margin-bottom:8px;">${escapeHtml(cleanMechanism)}</p>
-      <div style="padding:8px 11px;background:rgba(255,255,255,0.62);border-left:2.5px solid ${isCritical ? 'var(--berry-clash)' : 'var(--honey-warn)'};font-size:0.84rem;line-height:1.42;color:var(--text-primary);margin-bottom:8px;"><strong>How to Fix:</strong> ${escapeHtml(howToFix)}<div class="mono" style="margin-top:4px;font-size:0.78rem;color:var(--sage-safe);">${escapeHtml(swap.freeFix)}</div></div>
-      <div style="display:flex;justify-content:space-between;align-items:center;flex-wrap:wrap;gap:8px;"><span class="mono" style="font-size:0.78rem;color:var(--text-muted);">${timingTip}</span><a href="${escapeHtml(swap.directUrl)}" data-sovrn-beacon="${escapeHtml(swap.beaconUrl)}" target="_blank" rel="sponsored noopener noreferrer" class="affiliate-link-pill mono">${escapeHtml(swap.swapLabel)} at ${escapeHtml(swap.retailer)} &rarr;</a></div>
+  return `<div class="conflict-card ${escapeHtml(c.severity)}" style="padding:13px 15px;margin-bottom:8px;">
+      <div style="display:flex;justify-content:space-between;align-items:center;gap:8px;margin-bottom:5px;flex-wrap:wrap;"><span class="${isCritical ? 'badge-clash' : 'badge-warn'} mono">${badgeLabel}</span><span class="mono" style="font-size:0.84rem;color:var(--text-secondary);font-weight:500;">${escapeHtml(nameA)} + ${escapeHtml(nameB)}</span></div>
+      <div class="serif-display" style="font-size:1.18rem;font-weight:400;margin-bottom:4px;color:var(--text-primary);">${escapeHtml(cleanTitle)}</div>
+      <p style="color:var(--text-secondary);font-size:0.86rem;line-height:1.48;margin-bottom:7px;">${escapeHtml(cleanMechanism)}</p>
+      <div style="padding:7px 10px;background:rgba(255,255,255,0.66);border-left:2.5px solid ${isCritical ? 'var(--berry-clash)' : 'var(--honey-warn)'};font-size:0.82rem;line-height:1.4;color:var(--text-primary);margin-bottom:7px;"><strong>How to Fix:</strong> ${escapeHtml(howToFix)}<div class="mono" style="margin-top:3px;font-size:0.76rem;color:var(--sage-safe);">${escapeHtml(swap.freeFix)}</div></div>
+      <div style="display:flex;justify-content:space-between;align-items:center;flex-wrap:wrap;gap:8px;"><span class="mono" style="font-size:0.76rem;color:var(--text-muted);">${timingTip}</span><a href="${escapeHtml(swap.directUrl)}" data-sovrn-beacon="${escapeHtml(swap.beaconUrl)}" target="_blank" rel="sponsored noopener noreferrer" class="affiliate-link-pill mono">${escapeHtml(swap.swapLabel)} at ${escapeHtml(swap.retailer)} &rarr;</a></div>
     </div>`;
 }
 
@@ -477,8 +481,8 @@ function renderAnalysisResultHtml(res) {
   const badgeClass = isCritical ? 'badge-clash' : isWarn ? 'badge-warn' : 'badge-safe';
   const topVerdictText = res.conflicts.length === 0 ? 'Safe Everyday Routine · Zero Clashes' : res.verdictLabel;
 
-  const primaryConflicts = res.conflicts.slice(0, 2);
-  const extraConflicts = res.conflicts.slice(2);
+  const primaryConflicts = res.conflicts.slice(0, 1);
+  const extraConflicts = res.conflicts.slice(1);
   const rawTxt = String(res.rawInciText || '').trim();
   const pMatched = res.pastedMatched || [];
   const pCloggers = pMatched.filter((m) => m.comedogenicity >= 2 || m.malasseziaTrigger);
